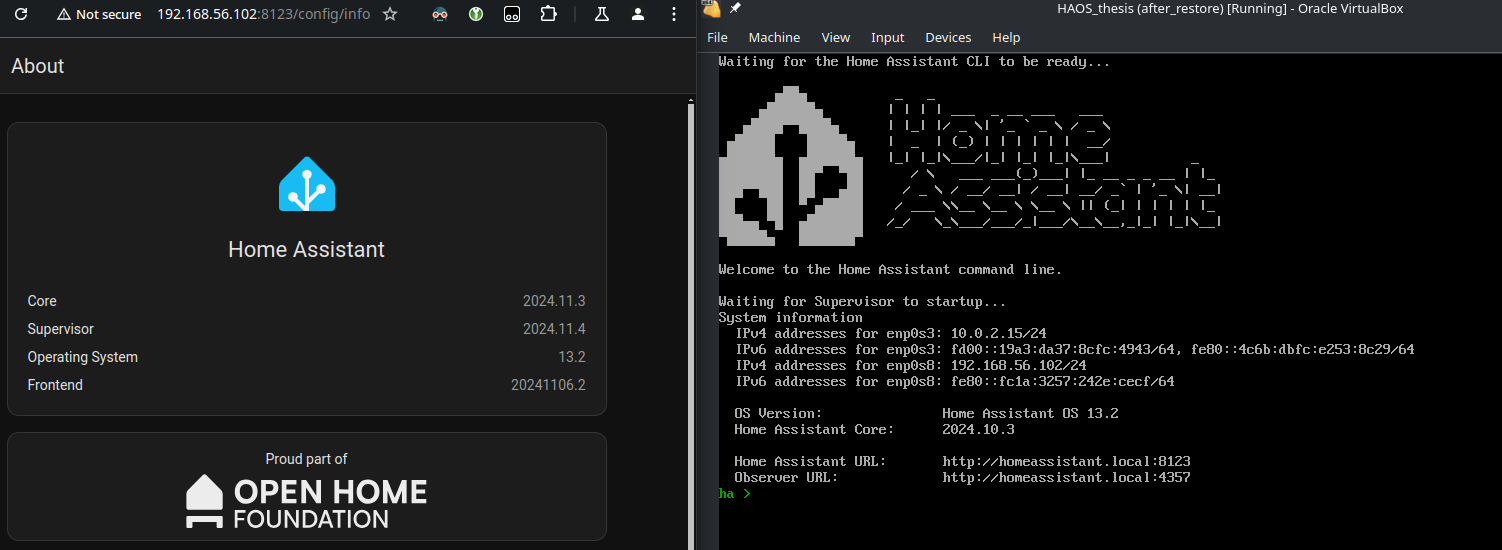
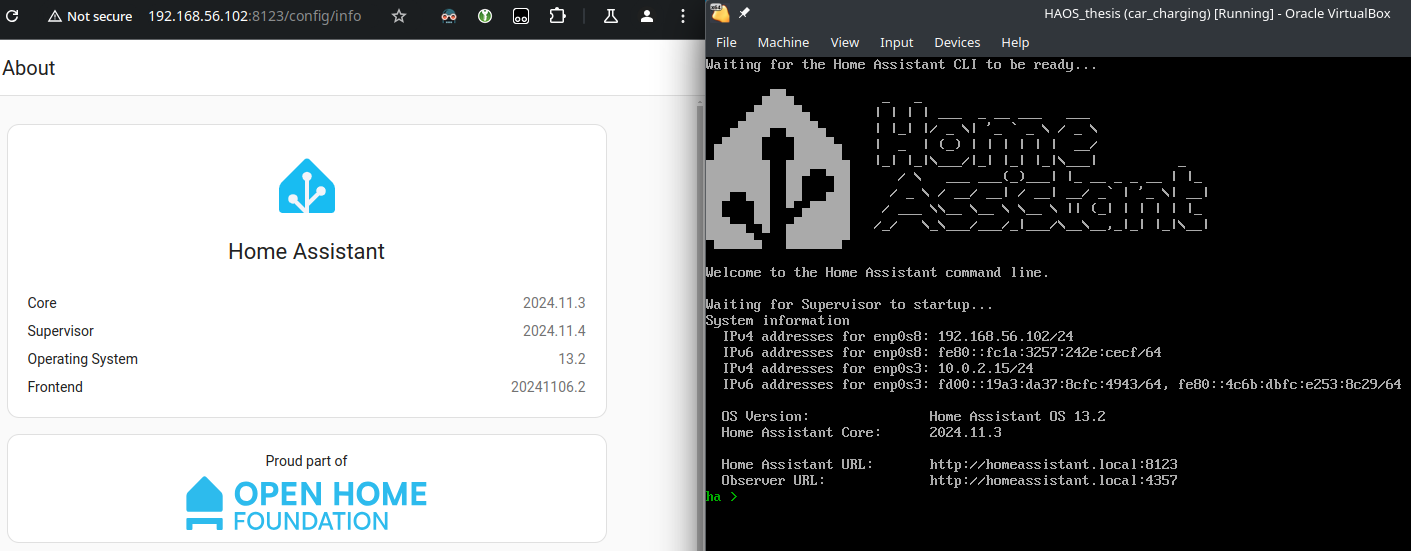
change screenshots, format improvements

diff --git a/doc/thesis/content/implementation.tex b/doc/thesis/content/implementation.tex
@@ -270,8 +270,7 @@ data:
 target:
   entity_id: light.car_carging_led  
 \end{lstlisting}
-\break
-
+\newpage
 \subsection{Voice assistant}
 
 As a prerequisite for the locally hosted voice assistant, the Home Assistant Docker environment was migrated to HA OS running in a VM, explained with more details in chapter 3.4.1. To set up the voice assistant environment, the installation guide was followed to set up the Piper (text-to-speech) and Whisper (speech-to-text) add-ons. \cite{HALocalAssist} The add-ons were configured to use a low quality speech detection and synthetization, in order to ensure fast response, as even with medium, the response time dramatically increased after pronouncing the commands. A screenshot of the assistant can be seen on \refstruc{fig:HAandroidVoiceAssistant}. The speech detection and synthetization supports many languages to be configured: English (UK, US), German and Hungarian were tried and out of these, English had the best accuracy of understanding and executing the said commands. Although it is impressive, it only works with simple commands, when exact device names are specified and doesn't reach the level of Artificial Intelligence based chatbots, that gained a rapid technology boom in the last few years.

diff --git a/doc/thesis/thesis.tex b/doc/thesis/thesis.tex
@@ -3,8 +3,8 @@
 % !TeX encoding = UTF-8
 % !TeX program = xelatex
 % TODO Change language to en_GB (recommended) or en_US for English documents
-\documentclass[11pt,a4paper,oneside]{report}             % Single-side
-%\documentclass[11pt,a4paper,twoside,openright]{report}  % Duplex
+% \documentclass[11pt,a4paper,oneside]{report}             % Single-side
+\documentclass[11pt,a4paper,twoside,openright]{report}  % Duplex
 
 \input{include/packages}
 

diff --git a/README.md b/README.md
@@ -2,5 +2,5 @@
 
 ## TODO
 - auto shutter, or togglable from the interface?
-- thermostat for fans/peltier
+- thermostat for fans/peltier?
 - simulated time with adjustable speed?
